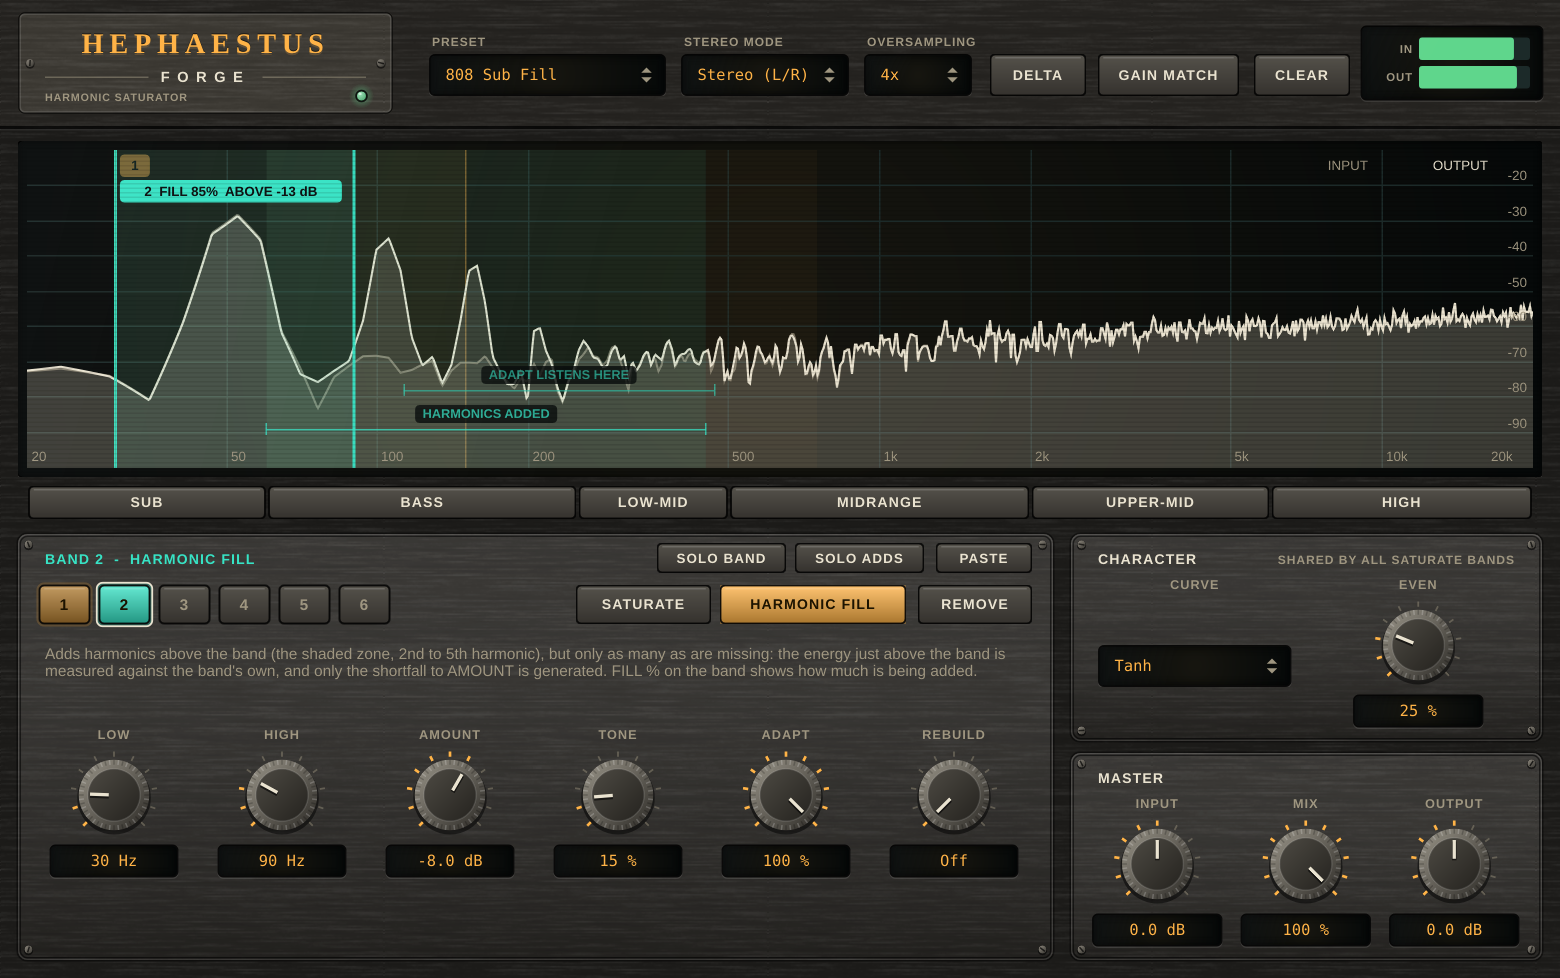
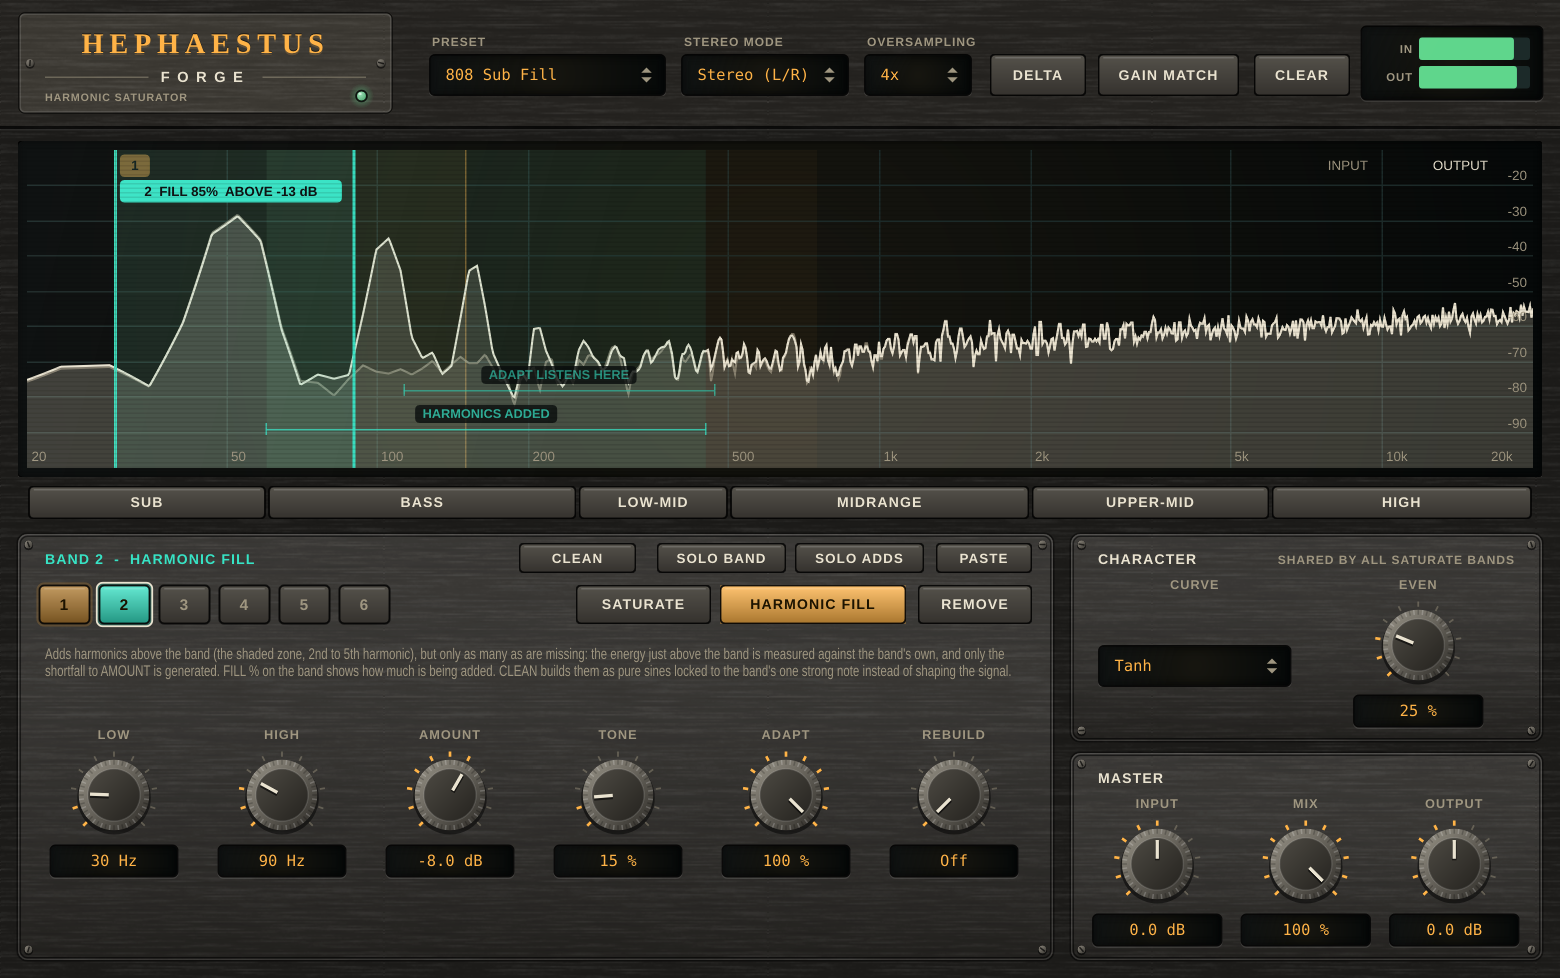
Hephaestus docs: Warm / Clean, measured numbers, limitations, new screenshot
Claude-Session: https://claude.ai/code/session_01PJDLAgLfcFaZRPW2gHfSC8

diff --git a/plugins/hephaestus/README.md b/plugins/hephaestus/README.md
@@ -23,7 +23,8 @@ namespaces and plugin codes use the short name "Hephaestus".)
   against the amount you set, so the balance holds from one moment to the next instead of piling harmonics onto passages
   that already have them. There is no feedback loop to destabilise.
 - **Exact where it can be, honest where it cannot.** The harmonics are weighted exactly (Chebyshev polynomials of the band
-  signal divided by its own envelope), aliasing is controlled by ADAA inside linear-phase oversampling, and every claim in
+  signal divided by its own envelope, or, in the **Clean** mode, sines locked to the band's strongest note), aliasing is
+  controlled by ADAA inside linear-phase oversampling, and every claim in
   this README is a measurement from the test suite. Where something is a heuristic, the [Limitations](#limitations) say so.
 - **Made for judging, with mastering tools in reach.** **Delta** (hear only what the plugin adds), **Gain Match**
   (loudness-matched A/B), **Mid/Side** mode, a latency-compensated **Mix** and a live input-vs-output spectrum, so more
@@ -40,6 +41,7 @@ namespaces and plugin codes use the short name "Hephaestus".)
 | **Bands** | Up to six bands, any ranges, overlapping or not. Double-click the spectrum where you want one and choose *Saturate* or *Harmonic Fill*, or use the buttons in the band panel; drag a band's edges to resize it and its body to move it; right-click it to change its mode or remove it. Each band has its own **Low** / **High** edge (20 Hz – 20 kHz; a fill band stops at 2 kHz, and an edge can't come closer than a ratio of 1.5). Bands fade in and out over one block when they are added or removed, and a removed band costs no CPU. |
 | **Saturate band** (amber) | Drives the sound inside the band into a waveshaper (ADAA + linear-phase oversampling), so harmonics appear above it. Per-band **Drive**; **Curve** and **Even** are shared. Anything outside the band is left exactly as it is. **Drive** is how hard the band is driven into the curve; small signals stay untouched whatever the drive. **Curve**: Tanh (smooth), Atan (open, tape-like) or Soft (algebraic, gritty, strongest upper odd harmonics). **Even**: 0 % = symmetric curve, odd harmonics only (3rd, 5th…); higher = asymmetric, adds 2nd, 4th… (tube-like). |
 | **Harmonic Fill band** (teal) | Adds harmonics (H2–H5) of the band's content *above* the band, but only as many as are missing. The energy just above the band is measured against the band's own, and only the shortfall to **Amount** is generated (see [Why Harmonic Fill is adaptive](#why-harmonic-fill-is-adaptive)). **Amount**: harmonic energy above the band relative to the band's own, in dB; also what Adapt aims to keep there; off at the minimum. **Tone**: which harmonics carry that energy: dark = mostly the 2nd; middle = the usual virtual-bass roll-off (−3 / −9 / −16 dB for H3 / H4 / H5 re H2); bright = led by the 3rd. The four weights always carry unit energy, so Amount means the same at any tone. **Adapt**: 0 % = a fixed amount, 100 % = only what is missing. **Rebuild** also regenerates a fundamental that is physically missing while its harmonics are present (difference tone, 3f − 2f = f), and only where it is missing; off by default and experimental on dense material. |
+| **Warm / Clean** (fill band, **CLEAN** switch, top of the band panel) | How a fill band makes its harmonics. **Warm** (off, the default, and how every earlier session sounds) is a waveshaper: Chebyshev polynomials of the band signal over its own envelope. That is the usual way to make virtual bass and it behaves like one, so the harmonics follow what the band holds and how fast its level moves: two notes at once intermodulate, and when the level falls faster than the envelope follows (a tremolo, a gated or fast-decaying note) the harmonics fall away, by about 30 dB at the bottom of a 3 Hz tremolo. **Clean** follows the one strongest note in the band and builds each harmonic as a pure sine at *k* times its frequency, locked to its phase and at its amplitude, with the same Amount, Tone and Adapt weights. Nothing else in the band is bent into new frequencies, and the balance of the harmonics does not depend on the level or the envelope. The price: it needs **one dominant note** (an 808, a sub, a bass line); it takes about 100 ms to lock onto a new note; and while the band holds several notes of similar level it adds less, down to nothing, instead of intermodulating (see [Why Clean follows one note](#why-clean-follows-one-note)). **Rebuild** is a squarer and stays what it is in either mode. |
 | **Where the harmonics land** | Both kinds show where they add harmonics: the selected band gets a bracketed zone labelled **HARMONICS ADDED**, from the 2nd harmonic of its Low edge to the 5th of its High edge (stopping short of Nyquist, and for a fill band short of any harmonic that would alias); every other band shows it as a faint tint. A fill band with Amount off adds none and shows none. |
 | **Spectrum analyzer** | Live input-vs-output spectrum that follows FabFilter Pro-Q's: an 8192-point FFT, **4.5 dB/oct tilt around 1 kHz** by default (so typical programme material looks flat), a 90 dB range, fast attack and a selectable release. Right-click empty space in it for Range (60 / 90 / 120 dB), Speed and Tilt (0 / 3 / 4.5 / 6 dB/oct); the choice is saved with the project. |
 | **ABOVE read-out** | A fill band's tab shows, next to FILL %, **ABOVE**: the energy already in the region the adaptive fill listens to, relative to the band's own, in dB (the scale **Amount** is set on). ABOVE well under Amount means the harmonics are missing and the fill is adding them; ABOVE at or over Amount means they are already there. It is what the fill compares, so it includes the band's own tone leaking through the region's filter skirt (a lone 60 Hz tone in a 40–120 Hz band reads about −16 dB; test [5c]). |
@@ -49,7 +51,7 @@ namespaces and plugin codes use the short name "Hephaestus".)
 | **Delta / Gain Match / Mix** | **Delta** plays only what the plugin adds (wet − dry). **Gain Match** is a slow (~0.6 s) RMS match, clamped to ±12 dB, for a loudness-matched A/B; it is off by default. **Mix** is latency-compensated: 0 is the input delayed by exactly the reported latency. |
 | **Stereo mode** | **Mid/Side** saturates M and S; fill bands then work on Mid only so bass stays centred. |
 | **Oversampling** | Off / 2× / 4× / 8×, linear-phase; 4× is the default. Latency is reported to the host and changes with this setting. |
-| **Presets** | Eight, including *808 Sub Fill*, *Missing Fundamental*, *Small-Speaker Bass*, *Master Glue*, *Warm Tube*, *Tape Body* and *Air Exciter* (see [Using it](#using-it)). |
+| **Presets** | Nine, including *808 Sub Fill*, *Clean Sub Fill* (the same fill, Clean, with no saturate band), *Missing Fundamental*, *Small-Speaker Bass*, *Master Glue*, *Warm Tube*, *Tape Body* and *Air Exciter* (see [Using it](#using-it)). |
 
 ### Why Harmonic Fill is adaptive
 
@@ -66,6 +68,21 @@ gain on harmonics  g   = (1 - Adapt) + Adapt x sqrt (s)       (smoothed over ~50
 The measurement is made on the *input*, so there is no feedback to destabilise. **Adapt 0 %** is the old fixed-amount behaviour; **Adapt 100 %** adds only the shortfall. The harmonics are generated with exact weights (Chebyshev polynomials of the band signal divided by its own envelope, see below), so a hollow passage gets precisely `Amount` of harmonic energy and a full one gets none. This was measured (see [What has and hasn't been verified](#what-has-and-hasnt-been-verified)): at Amount −6 dB a hollow passage gets **−6.3 dB** of added energy relative to the band, a passage that already has plenty above the band gets **nothing**, and a quarter-filled one gets 0.76 of the full amount where the law predicts 0.80.
 
 What it does *not* do: it judges "already there" by energy in a fixed region above the band, not by whether that energy is musically the right harmonics. Dense material above the band will make it back off. Raise Amount to ask for more energy above the band, lower Adapt to add regardless.
+
+### Why Clean follows one note
+
+A waveshaper makes harmonics of *everything* in its input at once, so with two notes in the band it also makes their sums and differences (the energy between the notes that makes a mix sound dirty), and the amount of each harmonic depends on how the level compares with the shaper's envelope. Measured on a 50 Hz note with 70 Hz beside it (test [5g]): with the second 20 dB quieter, the energy that is not on a multiple of either note is **-9 dB** re the harmonics in Warm and **-25 dB** in Clean; with the two equal, Warm adds **+2.6 dB** more than a lone note would, Clean **-8.4 dB** less. On a 60 Hz note under a 3 Hz tremolo (30 - 100 %) Warm's 2nd harmonic goes from **-2.3 dB** re the fundamental at the crest to **-34 dB** at the trough (69 dB of movement in 50 ms windows, because the envelope is still above the peaks when the level falls and the k-th Chebyshev harmonic scales as a^k); Clean's moves **9.3 dB**, all of it the integrators' lag of about 20 ms.
+
+Clean cannot be made free of that for arbitrary material: a harmonic *of a partial* needs that partial separated from the rest, and a bass that is a chord has nothing to separate. So it follows one note and says when it cannot:
+
+```
+PITCH       a bank of resonators over the band (8 per octave) -> the strongest one, interpolated -> the note's frequency
+PHASE       one second-order integrator per channel, tuned there -> the note as (v, q) in quadrature
+HARMONIC k  amplitude x Re ((v + jq) / |v + jq|)^k       (exact sines, weights as Warm)
+CONFIDENCE  the note's energy / the band's energy  ->  fades the fill out between 0.5 and 0.8
+```
+
+A frequency-locked loop on its own does not find a note (tried: on two notes it settled on neither), so the pitch is measured by the bank and the integrators only follow the phase from there. A note with its own 2nd harmonic in the band (the fundamental 6 dB above it) has a confidence of about 0.8 and still passes; a second note about as strong as that harmonic is not told from it, and is faded the same way. The integrators are narrow enough not to be carried off by a note 20 dB quieter a minor third away, and that is also why Clean takes about 100 ms to reach full level on a new note (**100 ms** to 90 % on a hit at full level, against 20 ms for Warm). Quicker settings of the pitch bank and the integrators were tried first and let the non-harmonic part rise (by 14 dB at the bottom of a 40-120 Hz band), which is the one thing Clean is for.
 
 ### Research this is based on
 
@@ -91,6 +108,7 @@ Details that matter:
 - **ADAA is applied to the nonlinear residual only** (`f(u)` minus its tangent line at the bias point). Plain first-order ADAA is a `[1 1]/2` low-pass in the linear regime (about -5 dB at 15 kHz at 48 kHz); this form keeps small-signal gain exactly 1 while still anti-aliasing the distortion. The DC blocker acts on the residual only, so bass in the clean path is never phase-shifted.
 - **The fundamental engine runs at the host rate**: a fill band's range stops at 2 kHz, so its harmonics stay well below Nyquist (a harmonic that would land above 0.48 x fs is dropped) and there is nothing to alias.
 - **The Chebyshev envelope releases slowly (`6 / lo`).** The k-th harmonic scales as `a^k` where `a` is the normalised amplitude, so envelope droop between waveform peaks costs accuracy mostly in H4/H5. Doubling the release from `3/lo` cut the worst-case error from 1.26 dB to 0.38 dB at 60 Hz, with harmonics still 48 dB down 50 ms after a note ends.
+- **Clean runs the same path as Warm**: the same band filters, the same band-limiting of what it generates, the same adaptive gain, the same latency alignment (it adds none), the same solo and delta. Only the generator inside the fundamental engine differs ([PartialTracker.h](Source/DSP/PartialTracker.h)). It costs one resonator per eighth of an octave of the band, on one channel (a fill band of 40-120 Hz: 14, a band of 20 Hz-2 kHz: 55) plus three integrators, all at the host rate.
 - **Rebuild's gap detector** compares input vs restored energy per frequency in a bank of narrow resonators. Comparing against the whole band mistakes a 2nd harmonic for an existing fundamental, and correlating with the restored signal fails because a difference tone is in phase quadrature with the true fundamental of saw-like waveforms. Both were tried first and failed the test suite.
 
 ## How to use
@@ -126,6 +144,7 @@ Builds are for your own use; if you hand one to somebody else, see [License and 
 3. **Or start from a preset:**
    - **Thin or small-speaker bass:** *Missing Fundamental* or *Small-Speaker Bass*. Put a Harmonic Fill band over the fundamentals you want to support. Watch the FILL % on its tab and confirm with **Delta**.
    - **808 / sub that disappears on laptops:** *808 Sub Fill*.
+   - **The same, without the amp-like character:** *Clean Sub Fill*, or press **CLEAN** on a fill band. Use it when the band holds one bass note at a time; if the harmonics fade in and out, the band holds more than one thing and Warm is the better tool.
    - **Glue and warmth:** *Master Glue* / *Warm Tube* / *Tape Body*. Use **Gain Match** so more saturation isn't mistaken for "better".
    - **Dull top end:** *Air Exciter* (a saturate band over the highs; harmonics land above it).
 4. **Judge with Delta and with the analyzer.** The display is tilted +4.5 dB/oct by default so typical programme material looks
@@ -185,6 +204,13 @@ state of that is tracked in the repository's [CLAUDE.md](../../CLAUDE.md)). Run 
 | Where the harmonics land (the shaded zone) | band-limited noise through a saturate band at 6 / 12 / 24 dB drive: **0.00 - 0.02 %** of what it adds lies above 5 x High; through a fill band: **0.45 %**, with 81 % of the added energy inside the zone (the rest sits just below it, from intermodulation of a noisy band) |
 | Sample rates 22.05 - 192 kHz | small-signal error **3e-8** (-60 dBFS in, input delayed by the reported latency), loud mixed bands finite and bounded |
 | Harmonic weights vs targets (-6/-9/-15/-22), 45 / 60 / 90 Hz, two input levels | within **0.6 dB** (0.3 dB mid-range), identical at -6 and -26 dBFS |
+| **Clean fill**, 40-120 Hz band, 45 / 60 / 90 Hz, 0.5 and 0.005 amplitude | weights within **0.1 dB** of -6/-9/-15/-22 (Warm: 0.6 dB), identical at both levels; energy not on a multiple of the note **-66 / -58 / -57 dB** (Warm -28 / -30 / -34 dB) |
+| Clean fill, a decaying 60 Hz note (30 dB lower at 2 s than at 0.3 s) | 2nd harmonic re fundamental **-5.61 dB** at 0.3 s and at 2 s |
+| Clean fill, a note that starts at full level | peak of the first 200 ms **0.594** vs 0.597 settled (no overshoot); **100 ms** to 90 % of its level |
+| Clean fill, two notes (50 + 70 Hz) | one 20 dB quieter: energy between the notes **-25 dB** re the harmonics (Warm -9 dB); equal: output **-8.4 dB** re a lone note (Warm +2.6 dB) |
+| Clean fill, 60 Hz under a 3 Hz tremolo (30 - 100 %) | 2nd harmonic re the fundamental moves **9.3 dB** over the cycle (Warm **69.0 dB**: -2.3 dB at the crest, -34 dB at the trough) |
+| Clean fill, 100 -> 50 Hz glide then held | 2nd harmonic **-6.0 dB** (target -6.0), not on a harmonic **-58 dB**, level during the glide -0.1 dB re held |
+| Clean fill, left-only note; 44.1 / 96 / 192 kHz; switching Warm <-> Clean while playing | right channel silent (**-240 dB**); 2nd harmonic **-6.0 dB** at every rate; finite and bounded |
 | Harmonic tails | 48 dB down 50 ms after note-off, 95 dB down at 100 ms |
 | Tone | the four H2-H5 weights carry unit energy at every tone; dark is H2, bright is led by H3 |
 | **Adaptive fill**, 60 Hz band, Amount -6 dB | Adapt 0 %: a hollow and a full passage get the same (+0.6 dB apart). Adapt 100 %: hollow passage **-6.3 dB** re band (target -6.0); plenty above the band: **nothing**; a quarter of the target above the band: **0.76** of the full amount (law: 0.80) |
@@ -200,12 +226,13 @@ state of that is tracked in the repository's [CLAUDE.md](../../CLAUDE.md)). Run 
 | Verified | Not yet verified |
 |---|---|
 | **`HephaestusUiCheck`** drives the real spectrum component with synthetic mouse events: a band added at 1 kHz takes the first free slot; clicking where bands overlap selects the narrowest; dragging an edge moves only that edge; dragging the body keeps the width ratio; an edge can't cross the minimum width; a fill band is pulled to at most 2 kHz; a full plugin refuses a seventh band and reuses a freed slot | **Inside FL Studio itself.** It was validated through JUCE's VST3 host and `auval`; *pluginval* was not run (the sandbox blocked executing the downloaded binary). Load it in FL and report anything odd |
-| **`HephaestusHostCheck`** loads the installed **VST3** through JUCE's host wrapper: 5 sample rates (22.05-192 kHz) x 5 block sizes (1-4096) with every parameter randomised, latency reporting follows the oversampling choice (0 / 49 / 61 / 65 samples) and an impulse through the loaded plugin comes out exactly that many samples later, state and all 8 presets round-trip, and a session saved with the old fixed three-band layout loads as three saturate bands plus one fill band. Apple's `auval` passes for the **AU** | **The mouse interaction by hand in a DAW.** Dragging, the add/remove menus and the band panel are covered by `HephaestusUiCheck` and screenshots, but not by a person using them |
+| **`HephaestusHostCheck`** loads the installed **VST3** through JUCE's host wrapper: 5 sample rates (22.05-192 kHz) x 5 block sizes (1-4096) with every parameter randomised, latency reporting follows the oversampling choice (0 / 49 / 61 / 65 samples) and an impulse through the loaded plugin comes out exactly that many samples later, state and all 9 presets round-trip, and a session saved with the old fixed three-band layout loads as three saturate bands plus one fill band. Apple's `auval` passes for the **AU** | **The mouse interaction by hand in a DAW.** Dragging, the add/remove menus and the band panel are covered by `HephaestusUiCheck` and screenshots, but not by a person using them |
 | | Windows and Linux builds. JUCE is cross-platform, but they were not built or tested |
 
 ## Limitations
 
 - **The adaptive fill judges "already there" by energy, not by harmonic content.** It compares the energy from 1.25 x High to 5.2 x High with the band's own; anything in that region counts, whether or not it is related to the band. On dense material it will often back off completely: that is the intended behaviour (the energy exists), but raise Amount or lower Adapt if you want it to add regardless. The Chebyshev weights are exact for sine-like band content; noise-like band content gives somewhat different harmonic energy, so the target is approximate there.
+- **Clean needs one dominant note.** It follows the strongest note in the band; a band that holds a chord, or a kick and a bass note of similar level, is faded out rather than filled (the confidence gate, 0.5 to 0.8 of the band's energy in the note), and the harmonics of a weaker second note are not made at all. It locks on in about 100 ms, so the first part of a short hit gets less than Warm gives. A note's own harmonics inside the band keep its confidence below 1 (fundamental 6 dB over its 2nd: about 0.8). The pitch bank is only coarse (the sines are locked to the note's phase, so the pitch only has to be close), and the part of the output that is not on a harmonic is -57 to -66 dB on a steady note (test [5g]), not zero.
 - **Rebuild is experimental.** A squarer produces difference tones between *all* component pairs in its input band, so dense low-mid material can yield inharmonic bass content. It suits sparse bass material; leave it off for full mixes unless Delta says it helps.
 - **A saturate band shapes a band-passed copy** (4th-order Butterworth edges), and what the shaper added is summed onto the clean signal. Near a band's edges, where that copy's phase has turned, the shaper's gain reduction on the fundamental is applied with that phase. This was not measured separately; overlap bands or check with Delta if a band edge sits on something important.
 - **Gain Match** is a slow (~0.6 s) RMS match, clamped to ±12 dB. It will partly undo a deliberate bass boost, since low-end energy dominates RMS; that's why it's off by default.

diff --git a/plugins/hephaestus/CLAUDE.md b/plugins/hephaestus/CLAUDE.md
@@ -34,6 +34,7 @@ Source/DSP/        no GUI dependencies; everything here is covered by Tests/Test
   Waveshaper.h       curves + residual-ADAA shaper
   Saturator.h        user-placed saturate bands: band-pass, per-band oversample + shape, outputs only the distortion
   FundamentalEngine.h  Chebyshev "extend" (+ adaptive gain) + difference-tone "rebuild", GapDetector, harmonicsForTone()
+  PartialTracker.h   the Clean fill's note follower: pitch bank + one integrator per channel + confidence gate (see "Clean fill" below)
   Engine.h           BandParams, latency alignment, band mixing, M/S, gain match, delta, meters, analyzer taps
 ../../shared/dsp/       Biquad.h (double-precision biquads, Butterworth, Bandpass pair), AnalyzerTap.h (lock-free sample FIFOs, audio thread -> editor) and
                      SpectrumAnalyzer.h (EQ-style FFT analyzer, GUI-free so its calibration is testable; test [10]) and MusicBands.h (the six main bands and their splitter, the band solo strip; test [12b]), namespace `pdsp`, shared with Iris (and Themis)
@@ -75,6 +76,8 @@ the top harmonics (test [5]); lengthening it risks hanging tails (test [5b]). Re
 frequency-selective (`GapDetector`): comparing against the whole band, or correlating with the restored signal,
 were both tried and failed.
 
+**Clean fill.** `FundamentalEngine::Params::clean` (the per-band `bN_clean` parameter, off = Warm, which is how every session saved before it sounds) swaps only the EXTEND generator: `extendClean` builds each harmonic as `amplitude x Re (u^k)` from `PartialTracker`'s phase vector `u`, with the same `harmonic[]` weights, `usable[]`, band-limiting filter, `adaptGain` and `extGain` as Warm. Do not put a waveshaper (or anything that mixes components of the band) in that path: its whole point is that nothing but the tracked note makes harmonics. The tracker's pitch comes from a resonator bank, *not* from a frequency-locked loop: an FLL on its own was tried and does not lock to either of two notes. The integrator damping (`kSogiDamping`), the bank's Q and smoothing and the confidence thresholds trade onset speed against the non-harmonic residue; quicker settings were measured and were dirtier at the bottom of the band, so test [5g] (residue under -45 dB, 100 ms to 90 %, a quieter second note ignored) pins them. Rebuild is a squarer and is the same in both modes. A new Clean behaviour belongs in [5g] with its measured number in the README.
+
 **Adaptive fill.** `Amount` is the harmonics' total *energy* relative to the band (`harmonicsForTone` weights carry unit
 energy, so `extGain` = amount and `target` = amount squared). Adapt measures the energy above the band
 (`harmonicReach`) on the *input* and scales the harmonics by `(1 - adapt) + adapt * sqrt (shortfall)`. Keep the
@@ -92,6 +95,7 @@ and `UiCheck` covers it. Never build a `juce::String` on the audio thread: look 
 ## DRY: where each thing lives (change it there only)
 
 - parameter ranges, defaults, choice lists, "off" thresholds -> `Parameters.h` (the editor reads combo items from the parameter)
+- the Warm / Clean choice of a fill band -> its `bN_clean` parameter (`BandIds::clean`, version 3), read into `Params::clean` by `readParams()`; the editor's CLEAN switch is re-bound to the selected fill band in `refreshBandPanel()` and is not a knob slot (the six slots are full)
 - per-band parameter ids -> `bandIds()`; adding / removing a band and switching its mode -> `addBand`, `removeBand`, `setBandMode`
   (the spectrum menu, the double-click menu and the band panel buttons all call these); bands pasted from another plugin
   (`pdsp::link`, `shared/dsp/BandLink.h`) -> `pasteBands` (fill bands only)
